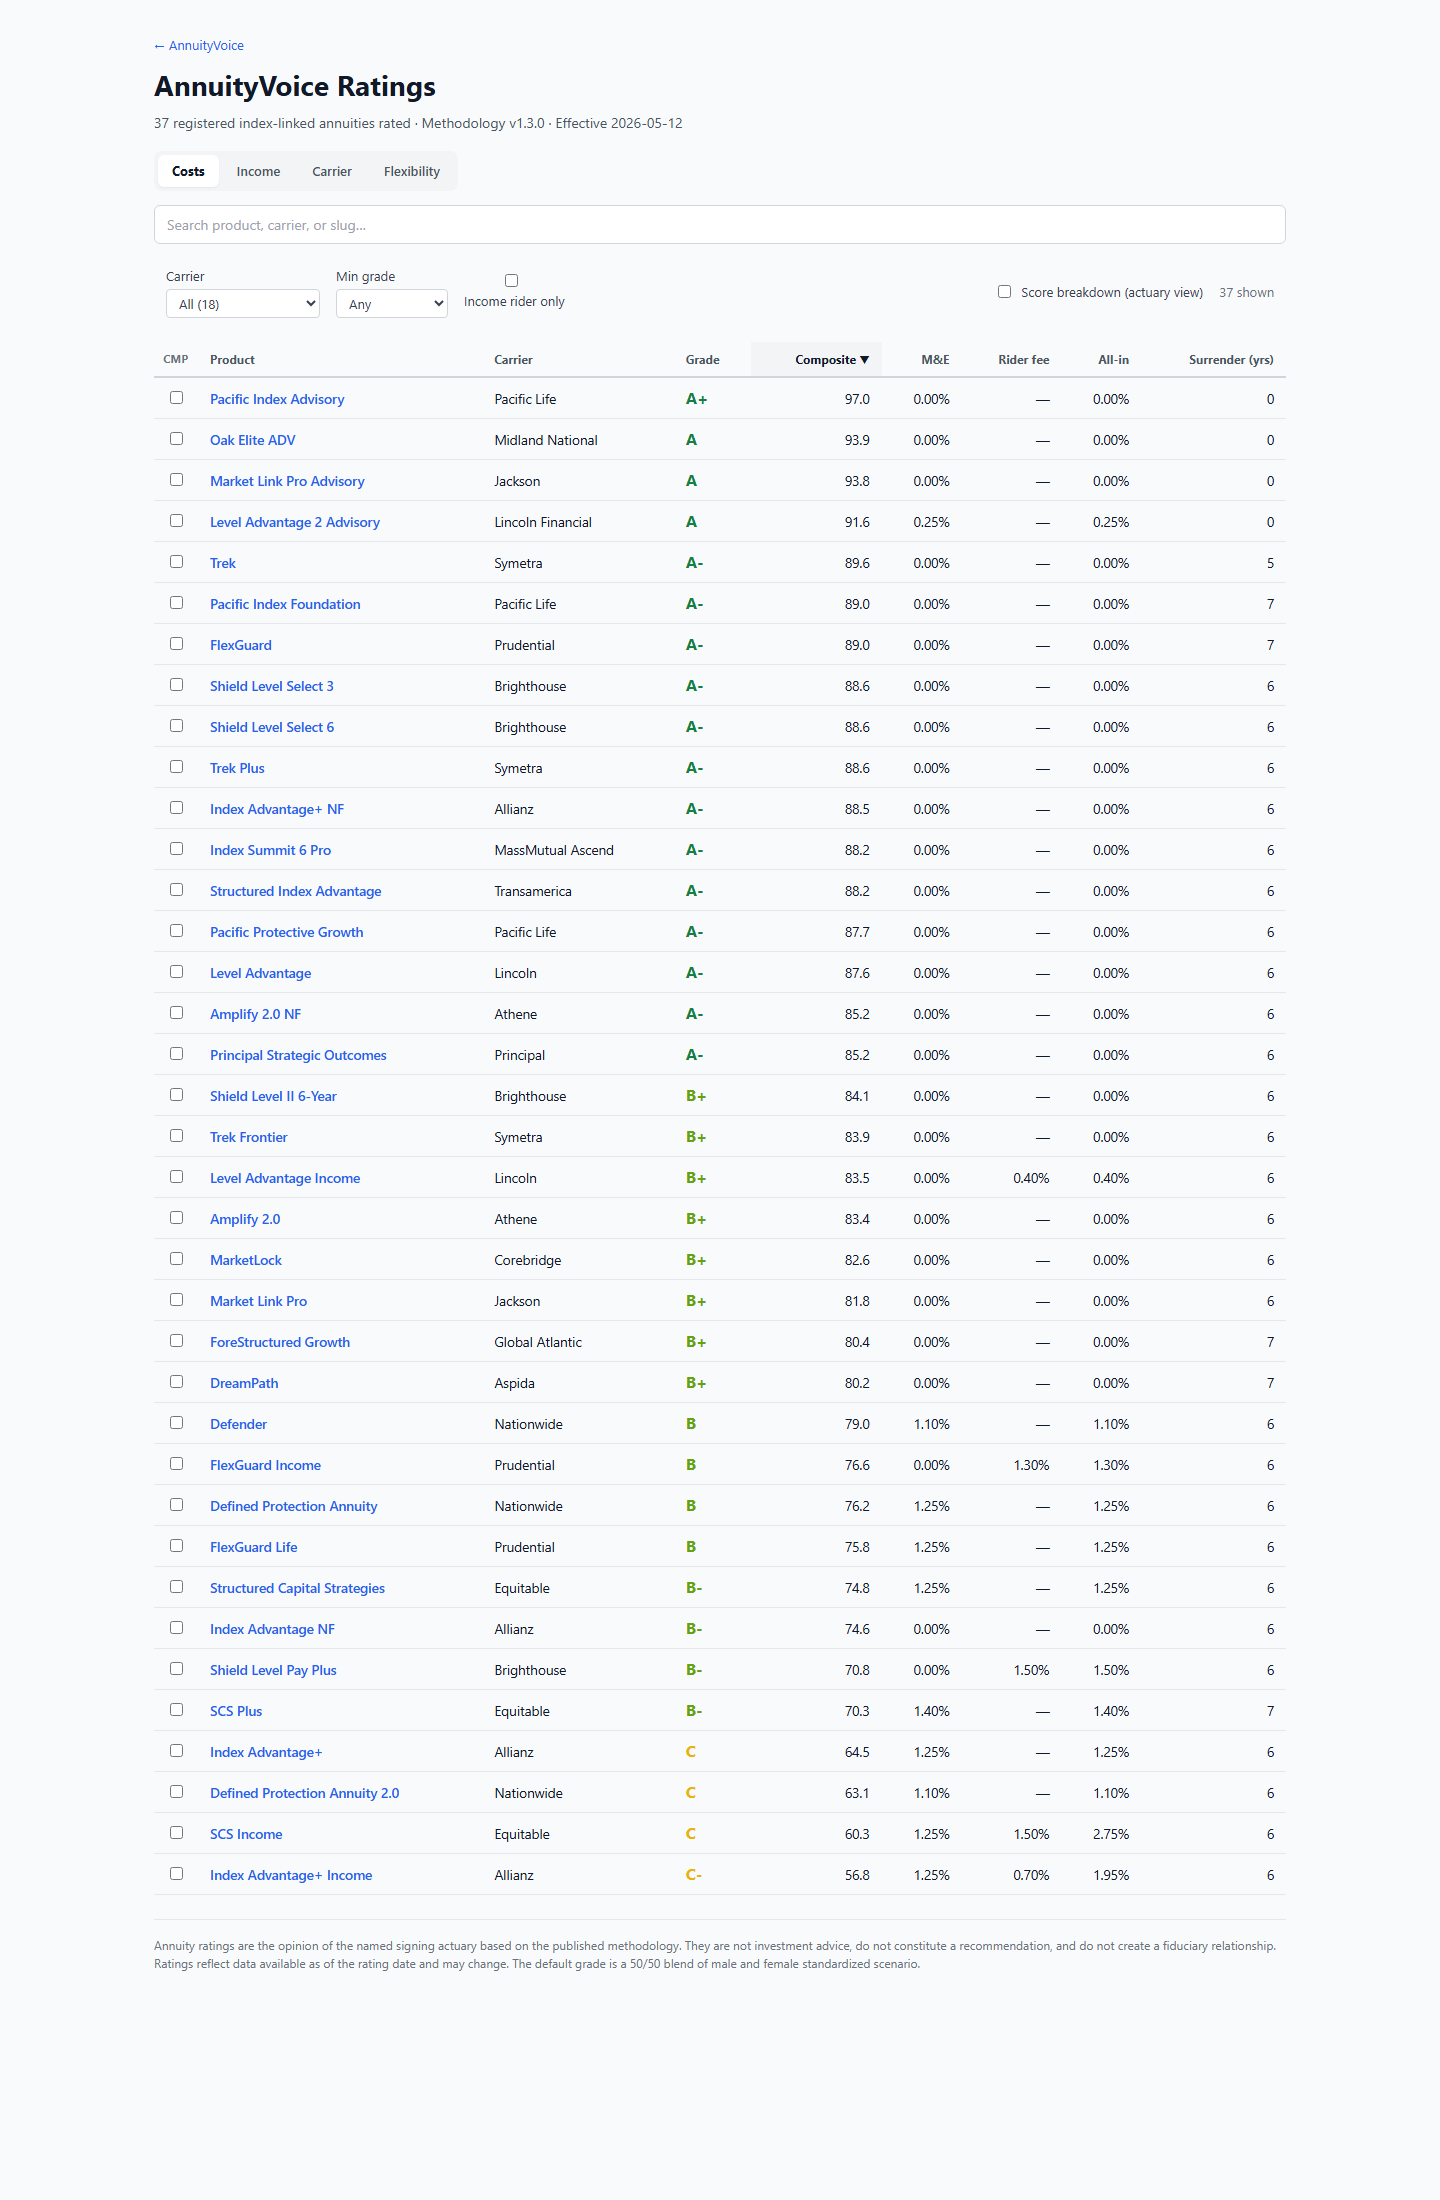
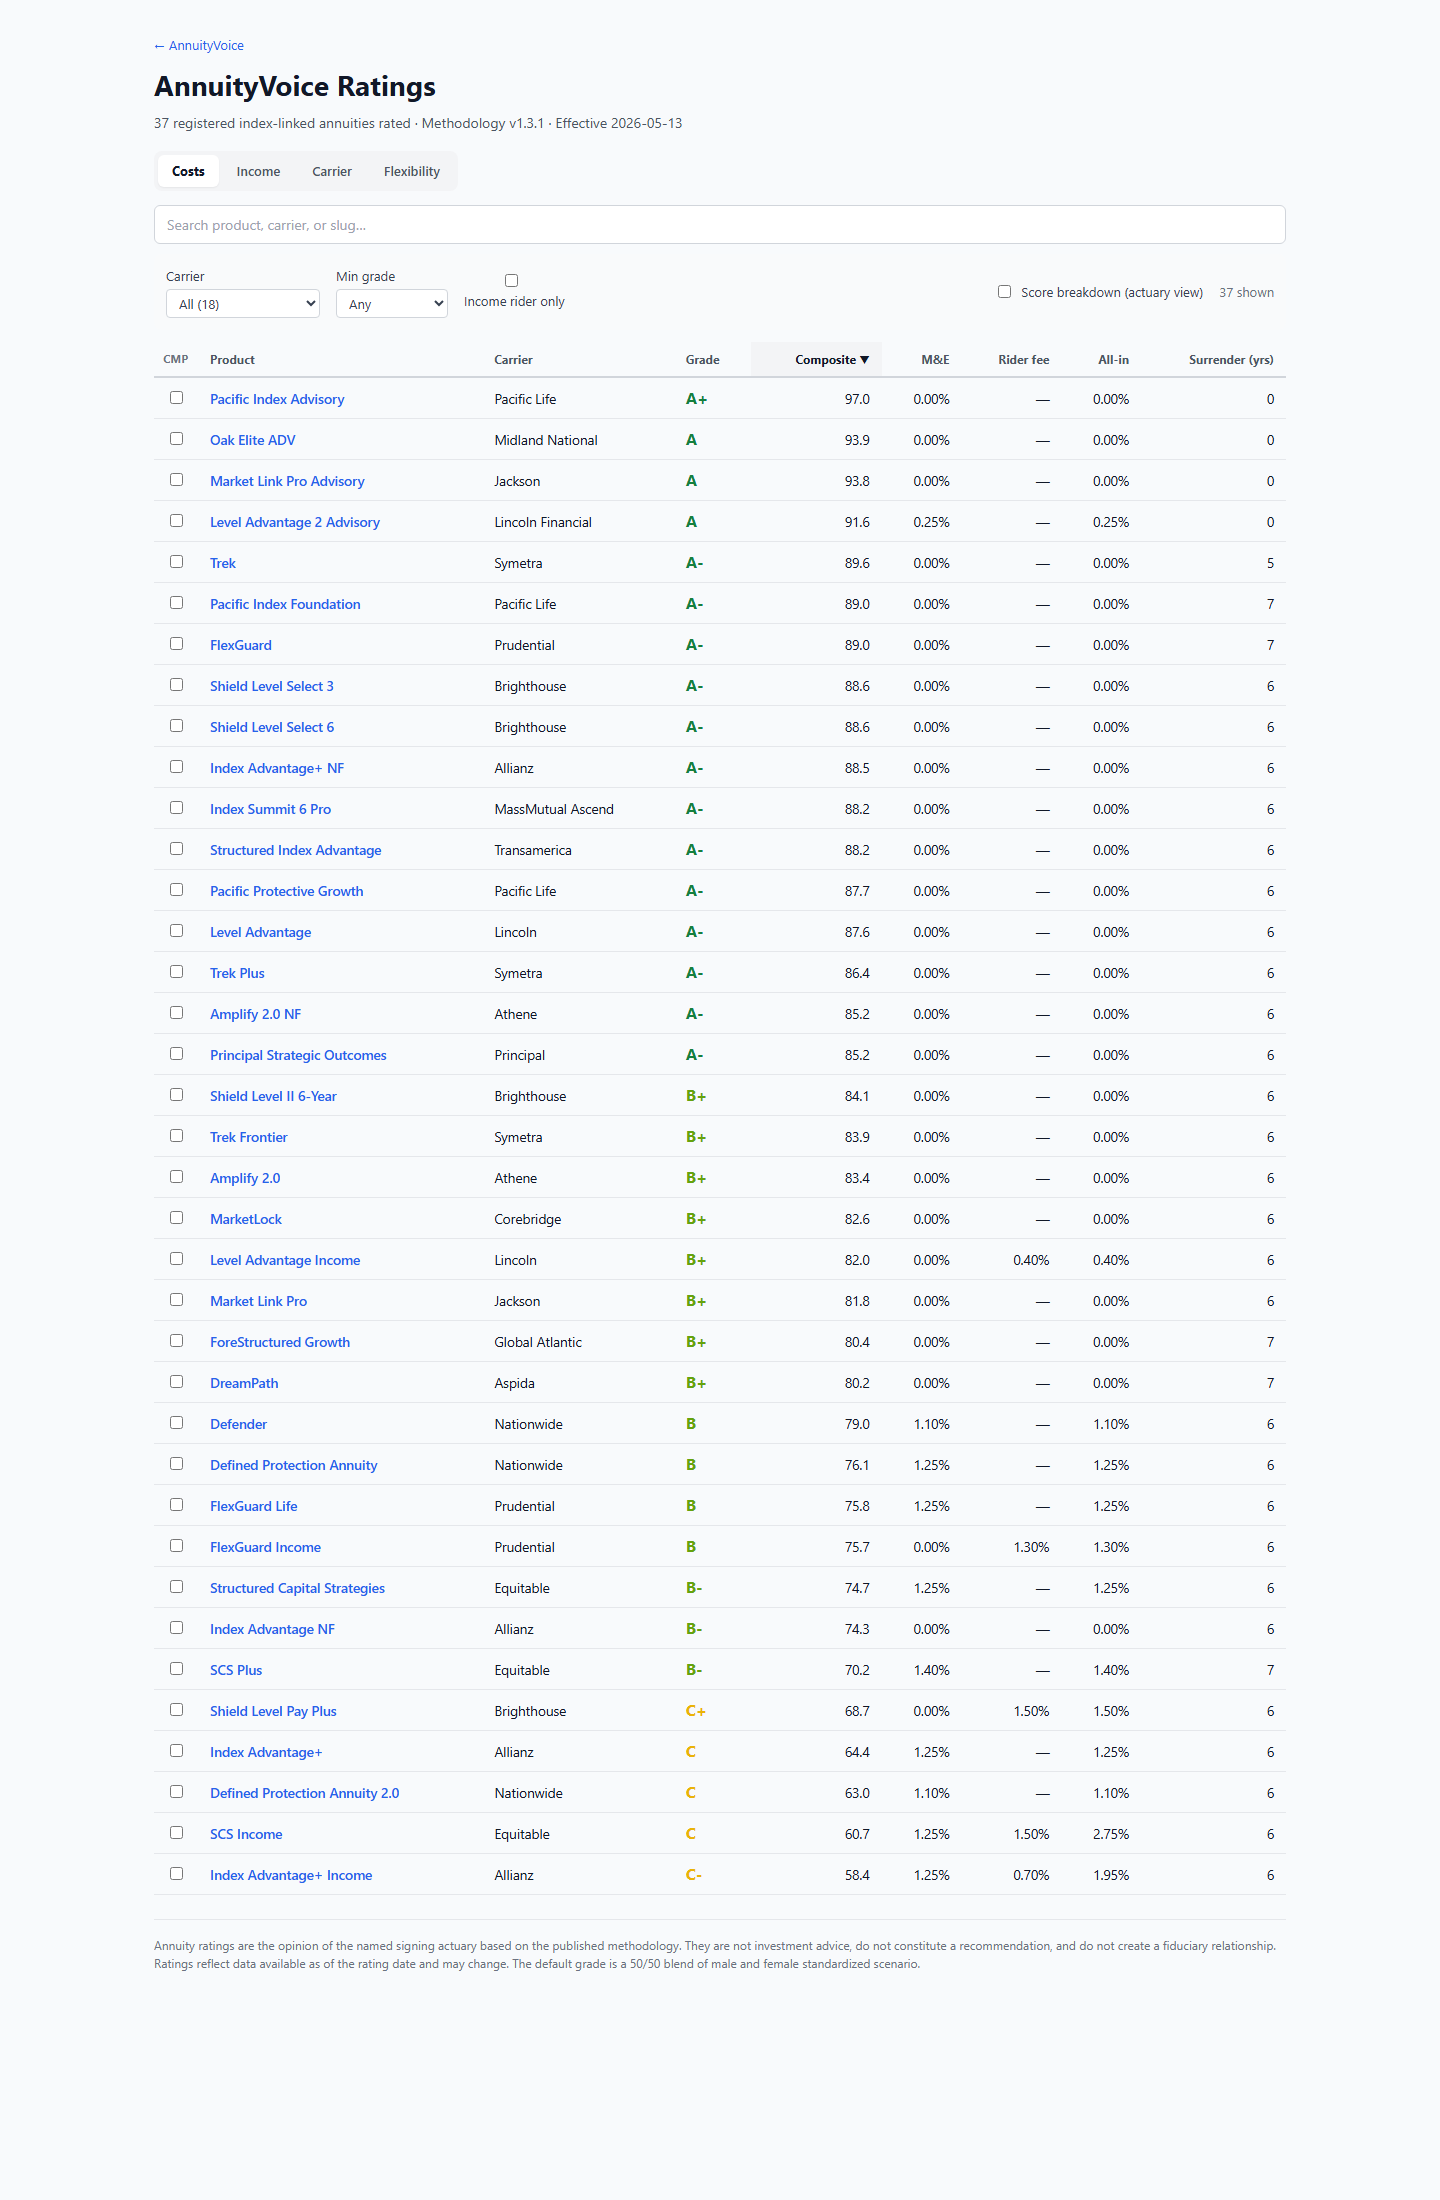
Update screenshots: v1.3.1 math fixes + cap-rate freshness badge
- Refreshed ratings_index.png (37 products, v1.3.1)
- New ratings_detail_freshness.png shows the cap-rate verified-today badge
  on the Flexibility lens segment list for equitable_scs_income
- README updated with v1.3.1 changelog

diff --git a/README.md b/README.md
@@ -1,7 +1,27 @@
 # Ratings UI screenshots
 
-Captured 2026-05-12 from `localhost:5173` on the `ratings-mvp` branch
-([commit 01edcc3](https://github.com/KaihuaY/va-gmwb-calculator/tree/ratings-mvp)).
+Latest captured 2026-05-13 from `localhost:5173` on the `ratings-mvp` branch
+([commit 178c391](https://github.com/KaihuaY/va-gmwb-calculator/tree/ratings-mvp)).
+
+## v1.3.1 update (2026-05-13)
+
+- **Methodology bumped to v1.3.1** — four math audit fixes landed:
+  - μ now read from `methodology.scoring_scenario.mu` everywhere (no hardcoded 0.07)
+  - `me_fees_pv` separated from `rider_fees_pv` in Monte Carlo accumulation
+  - Buffer PV persistency-weighted on the same basis as rider PV
+  - Buffer cost base uses real `av_paths_p50` trajectory instead of flat AV
+- **Cap-rate freshness scaffold** — `cap_rate_last_verified` + `cap_rate_source_url`
+  per segment, `GET /ratings/{slug}/freshness` endpoint, `FreshnessBadge` UI
+  pill (green ≤30d, yellow ≤90d, red >90d/unverified), `tools/fetch_cap_rates.py`
+  + `tools/apply_rate_proposals.py` for K-owned review workflow.
+- `ratings_detail_freshness.png` is the new screenshot showing the badge in
+  the Flexibility lens segment list.
+
+Methodology **v1.3.1**. 37 RILA products rated, FSA-signed by K Hu.
+
+Older context retained below for reference.
+
+---
 
 Methodology **v1.3.0**. 37 RILA products rated (~86% of 2025 US RILA premium
 per LIMRA), 50/50 blended-gender mortality, FSA-signed by K Hu.